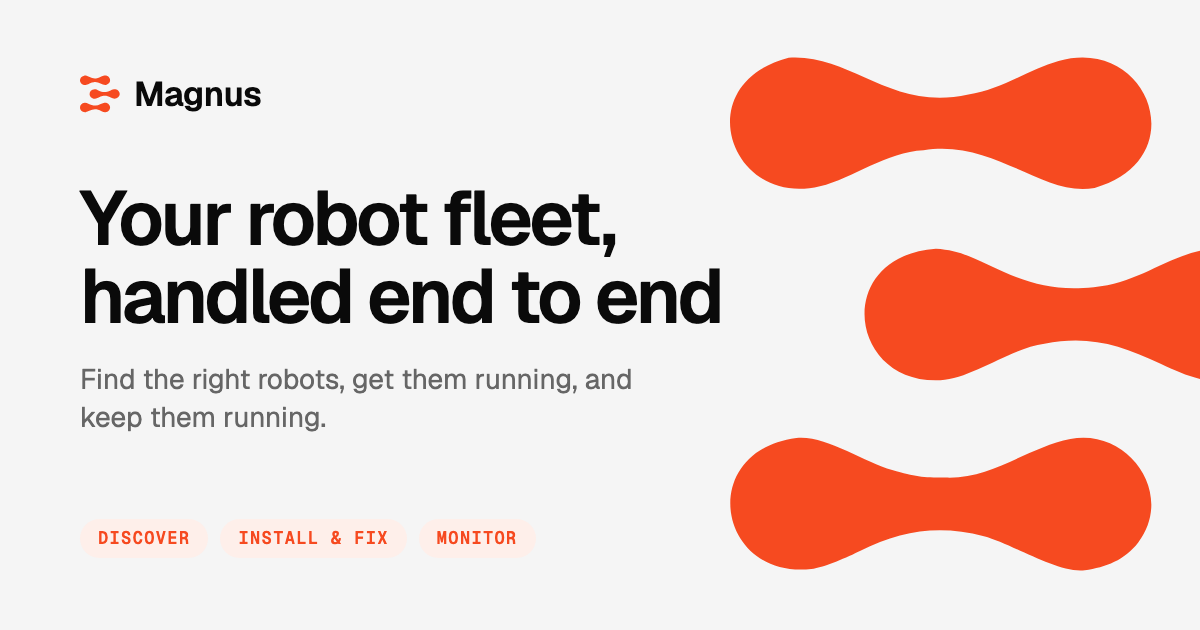
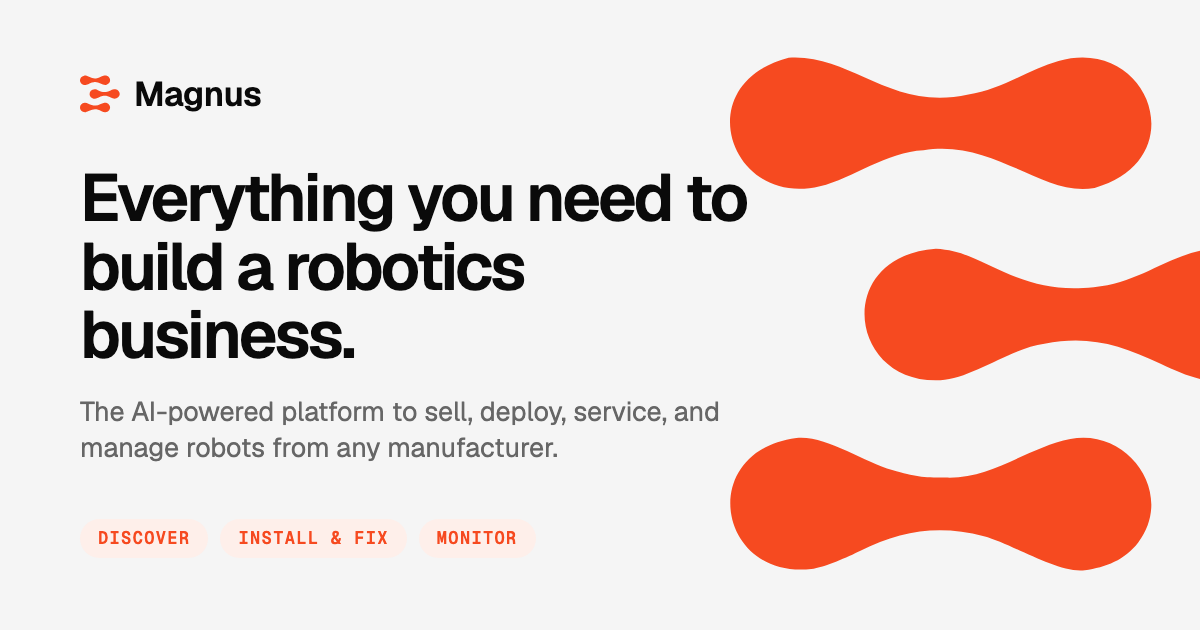
New hero copy and matching share image

Changed region(s): [[0.0617, 0.2714, 0.6475, 0.7238]]

diff --git a/index.html b/index.html
@@ -4,19 +4,19 @@
 <meta charset="utf-8">
 <meta name="viewport" content="width=device-width, initial-scale=1">
 <title>Magnus</title>
-<meta name="description" content="Your robot fleet, handled end to end. Find the right robots, get them running, and keep them running, all from one platform built for the factory floor.">
+<meta name="description" content="Everything you need to build a robotics business. The AI-powered platform to sell, deploy, service, and manage robots from any manufacturer.">
 <meta property="og:type" content="website">
 <meta property="og:site_name" content="Magnus">
 <meta property="og:url" content="https://chrisvangroll.github.io/magnus-landing/">
-<meta property="og:title" content="Magnus: your robot fleet, handled end to end">
-<meta property="og:description" content="Find the right robots, get them running, and keep them running, all from one platform built for the factory floor.">
+<meta property="og:title" content="Magnus: everything you need to build a robotics business">
+<meta property="og:description" content="The AI-powered platform to sell, deploy, service, and manage robots from any manufacturer.">
 <meta property="og:image" content="https://chrisvangroll.github.io/magnus-landing/media/og-image.png">
 <meta property="og:image:width" content="1200">
 <meta property="og:image:height" content="630">
-<meta property="og:image:alt" content="Magnus: your robot fleet, handled end to end">
+<meta property="og:image:alt" content="Magnus: everything you need to build a robotics business">
 <meta name="twitter:card" content="summary_large_image">
-<meta name="twitter:title" content="Magnus: your robot fleet, handled end to end">
-<meta name="twitter:description" content="Find the right robots, get them running, and keep them running, all from one platform built for the factory floor.">
+<meta name="twitter:title" content="Magnus: everything you need to build a robotics business">
+<meta name="twitter:description" content="The AI-powered platform to sell, deploy, service, and manage robots from any manufacturer.">
 <meta name="twitter:image" content="https://chrisvangroll.github.io/magnus-landing/media/og-image.png">
 <link rel="icon" href="favicon.ico" sizes="any">
 <link rel="icon" type="image/png" href="media/magnus-favicon-512.png">
@@ -49,7 +49,7 @@ header .wrap{display:flex;align-items:center;justify-content:space-between;heigh
 
 /* hero */
 .hero{padding:72px 0 48px;text-align:center}
-.hero h1{font-size:clamp(36px,6vw,64px);line-height:1.05;letter-spacing:-.035em;font-weight:600;margin:20px auto 18px;max-width:14ch}
+.hero h1{font-size:clamp(36px,6vw,64px);line-height:1.05;letter-spacing:-.035em;font-weight:600;margin:20px auto 18px;max-width:18ch}
 .hero p.lede{font-size:clamp(16px,2vw,19px);color:var(--dim);max-width:56ch;margin:0 auto 32px}
 .video{margin:48px auto 0;border-radius:16px;overflow:hidden;border:1px solid var(--line);background:var(--ink);box-shadow:0 20px 60px -20px rgba(10,10,10,.25)}
 .video video{display:block;width:100%;height:auto}
@@ -98,8 +98,8 @@ footer .wrap{display:flex;justify-content:space-between;align-items:center}
 <main>
   <section class="hero">
     <div class="wrap">
-      <h1>Your robot fleet, handled end to end</h1>
-      <p class="lede">Find the right robots, get them running, and keep them running, all from one platform built for the factory floor.</p>
+      <h1>Everything you need to build a robotics business.</h1>
+      <p class="lede">The AI-powered platform to sell, deploy, service, and manage robots from any manufacturer.</p>
       <button class="btn" data-cta>
         Partner with us
         <svg viewBox="0 0 24 24" fill="none" stroke="currentColor" stroke-width="1.5" stroke-linecap="round" stroke-linejoin="round"><path d="M5 12h14"/><path d="m13 6 6 6-6 6"/></svg>
